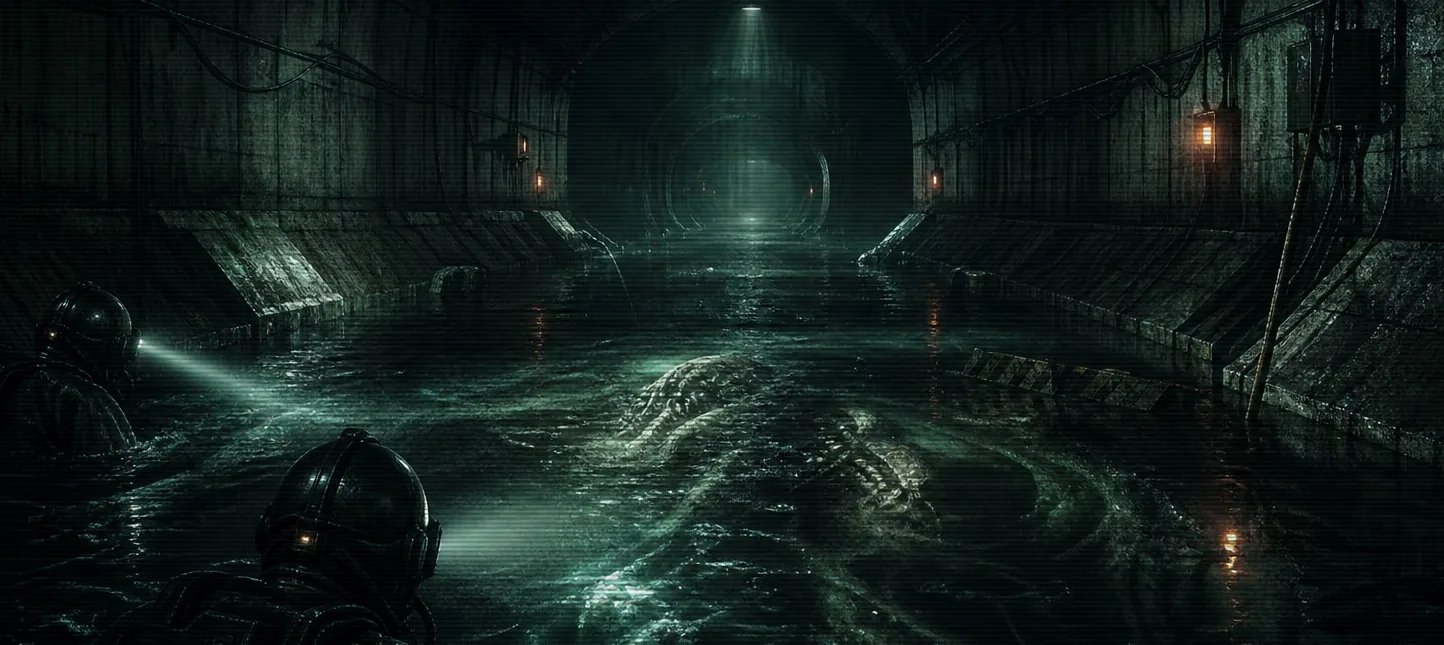
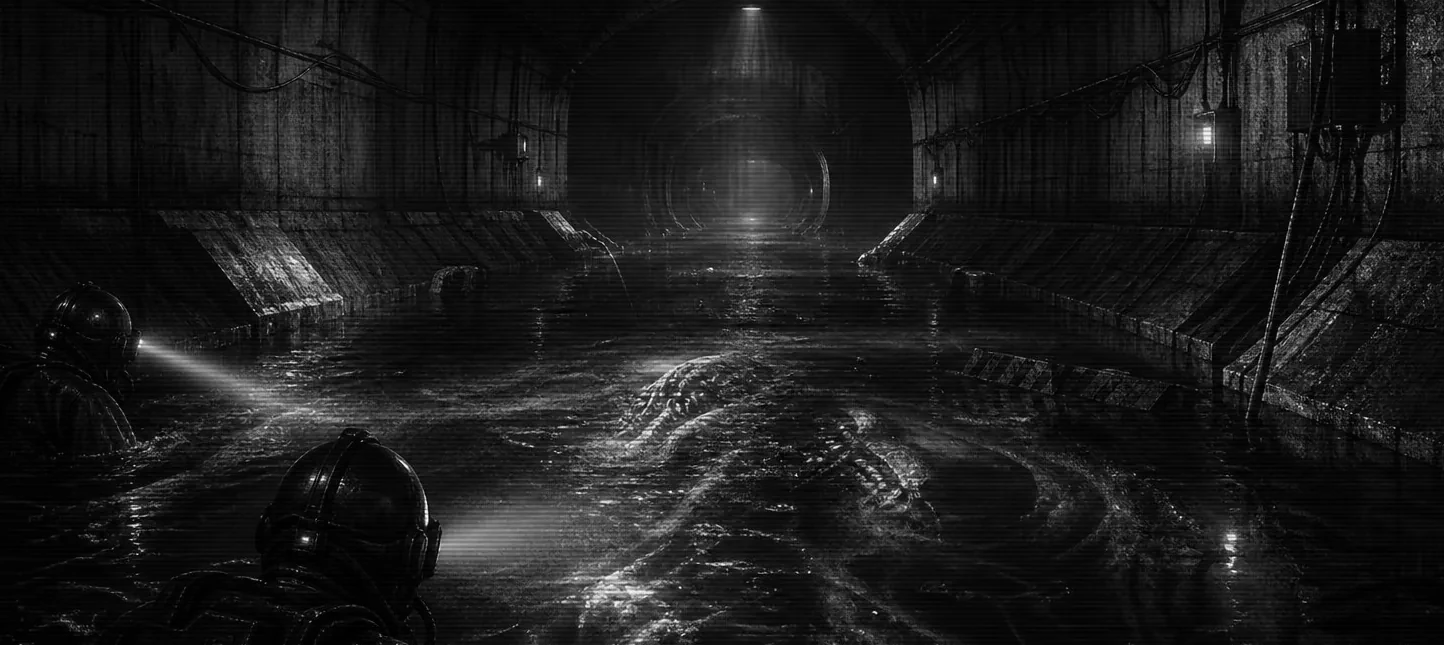
fix(ui): 현장임무 히어로 흑백 통일 (BUILD 305)
현장임무 영역 이미지 톤 비일관 해소.

- 근본 원인: .fm-hero-img 가 filter:grayscale(.5)로 절반만 흑백 →
  게임의 다른 사진(card-img/mission-img/portrait=grayscale(1))과 불일치.
  컬러 원본은 절반 채도로 컬러처럼 보였음. → grayscale(1)로 통일
  (모든 미션 브리핑/결과 히어로가 완전 흑백 표시; incident 히어로 미세 틴트도 커버)
- 유일한 컬러 원본 사진 mission_m010_brain_seeker(clean.webp/hero.jpg)을
  에셋 레벨에서도 흑백화(채도 0). 전 사용처가 현장임무 히어로뿐임을 확인
- 초록/노랑 UI 에셋(버튼·뱃지·아이콘)은 의도된 터미널 액센트라 유지
- root+demo 동기화, style.css?v=120

검증: M-010 히어로 computed filter grayscale(1) 확인·brain_seeker 원본 채도 0,
validator 0건

diff --git a/demo/style.css b/demo/style.css
@@ -254,7 +254,7 @@ button,.btn,.card-msg,.oracle-card__title,.oracle-card__desc,.oracle-card__effec
 .fm-threat--high{color:#f0a030;border-color:rgba(240,160,48,.6);background:rgba(240,160,48,.1)}
 .fm-threat--active,.fm-threat--medium,.fm-threat--low{color:#46d07a;border-color:rgba(70,208,122,.5);background:rgba(70,208,122,.08)}
 .fm-hero{position:relative;width:100%;height:228px;border:1px solid rgba(var(--ui-rgb),.28);border-radius:3px;overflow:hidden;background:#060a06}
-.fm-hero-img{width:100%;height:100%;object-fit:cover;object-position:center;filter:grayscale(.5) brightness(.74) contrast(1.16)}
+.fm-hero-img{width:100%;height:100%;object-fit:cover;object-position:center;filter:grayscale(1) brightness(.74) contrast(1.16)}
 .fm-hero-grad{position:absolute;inset:0;background:linear-gradient(180deg,rgba(4,8,8,.35),rgba(4,8,8,.05) 35%,rgba(4,8,8,.6));pointer-events:none}
 .fm-hero-radar{position:absolute;top:10px;left:10px;width:54px;height:54px;border:1px solid rgba(var(--ui-rgb),.4);border-radius:50%;background:radial-gradient(circle,rgba(var(--ui-rgb),.12),transparent 70%);overflow:hidden}
 .fm-hero-radar::before{content:"";position:absolute;inset:0;background:repeating-radial-gradient(circle,transparent 0 8px,rgba(var(--ui-rgb),.18) 8px 9px)}

diff --git a/style.css b/style.css
@@ -254,7 +254,7 @@ button,.btn,.card-msg,.oracle-card__title,.oracle-card__desc,.oracle-card__effec
 .fm-threat--high{color:#f0a030;border-color:rgba(240,160,48,.6);background:rgba(240,160,48,.1)}
 .fm-threat--active,.fm-threat--medium,.fm-threat--low{color:#46d07a;border-color:rgba(70,208,122,.5);background:rgba(70,208,122,.08)}
 .fm-hero{position:relative;width:100%;height:228px;border:1px solid rgba(var(--ui-rgb),.28);border-radius:3px;overflow:hidden;background:#060a06}
-.fm-hero-img{width:100%;height:100%;object-fit:cover;object-position:center;filter:grayscale(.5) brightness(.74) contrast(1.16)}
+.fm-hero-img{width:100%;height:100%;object-fit:cover;object-position:center;filter:grayscale(1) brightness(.74) contrast(1.16)}
 .fm-hero-grad{position:absolute;inset:0;background:linear-gradient(180deg,rgba(4,8,8,.35),rgba(4,8,8,.05) 35%,rgba(4,8,8,.6));pointer-events:none}
 .fm-hero-radar{position:absolute;top:10px;left:10px;width:54px;height:54px;border:1px solid rgba(var(--ui-rgb),.4);border-radius:50%;background:radial-gradient(circle,rgba(var(--ui-rgb),.12),transparent 70%);overflow:hidden}
 .fm-hero-radar::before{content:"";position:absolute;inset:0;background:repeating-radial-gradient(circle,transparent 0 8px,rgba(var(--ui-rgb),.18) 8px 9px)}

diff --git a/demo/index.html b/demo/index.html
@@ -10,7 +10,7 @@
   <link rel="preconnect" href="https://fonts.googleapis.com">
   <link rel="preconnect" href="https://fonts.gstatic.com" crossorigin>
   <link href="https://fonts.googleapis.com/css2?family=Noto+Sans+KR:wght@400;700&family=Share+Tech+Mono&display=swap" rel="stylesheet">
-  <link rel="stylesheet" href="style.css?v=119">
+  <link rel="stylesheet" href="style.css?v=120">
   <link rel="stylesheet" href="style-glitch.css?v=4">
   <link rel="stylesheet" href="style-escape.css?v=2">
   <link rel="stylesheet" href="style-i18n-hotfix.css?v=1">

diff --git a/index.html b/index.html
@@ -10,7 +10,7 @@
   <link rel="preconnect" href="https://fonts.googleapis.com">
   <link rel="preconnect" href="https://fonts.gstatic.com" crossorigin>
   <link href="https://fonts.googleapis.com/css2?family=Noto+Sans+KR:wght@400;700&family=Share+Tech+Mono&display=swap" rel="stylesheet">
-  <link rel="stylesheet" href="style.css?v=119">
+  <link rel="stylesheet" href="style.css?v=120">
   <link rel="stylesheet" href="style-glitch.css?v=4">
   <link rel="stylesheet" href="style-escape.css?v=2">
   <link rel="stylesheet" href="style-i18n-hotfix.css?v=1">
